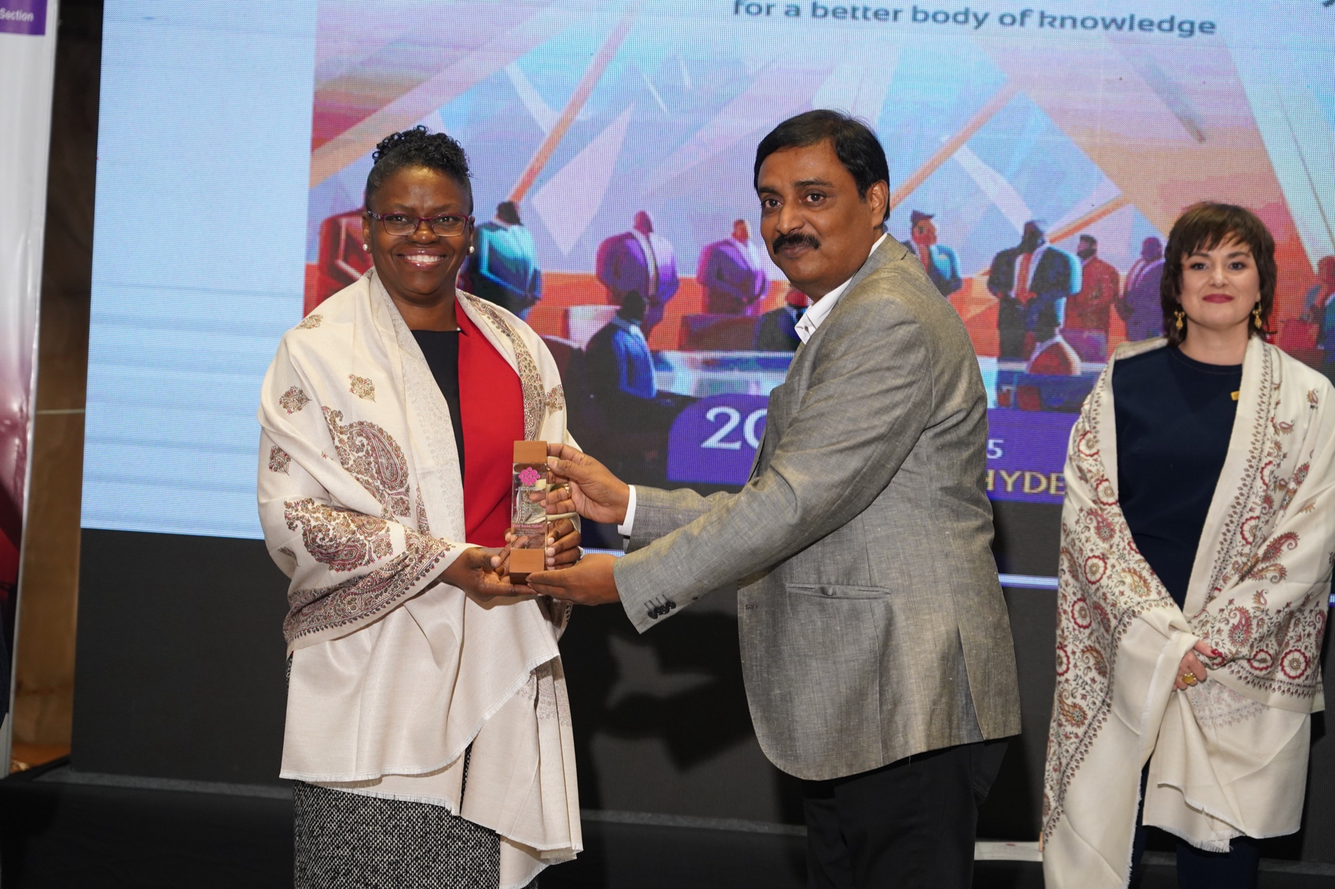
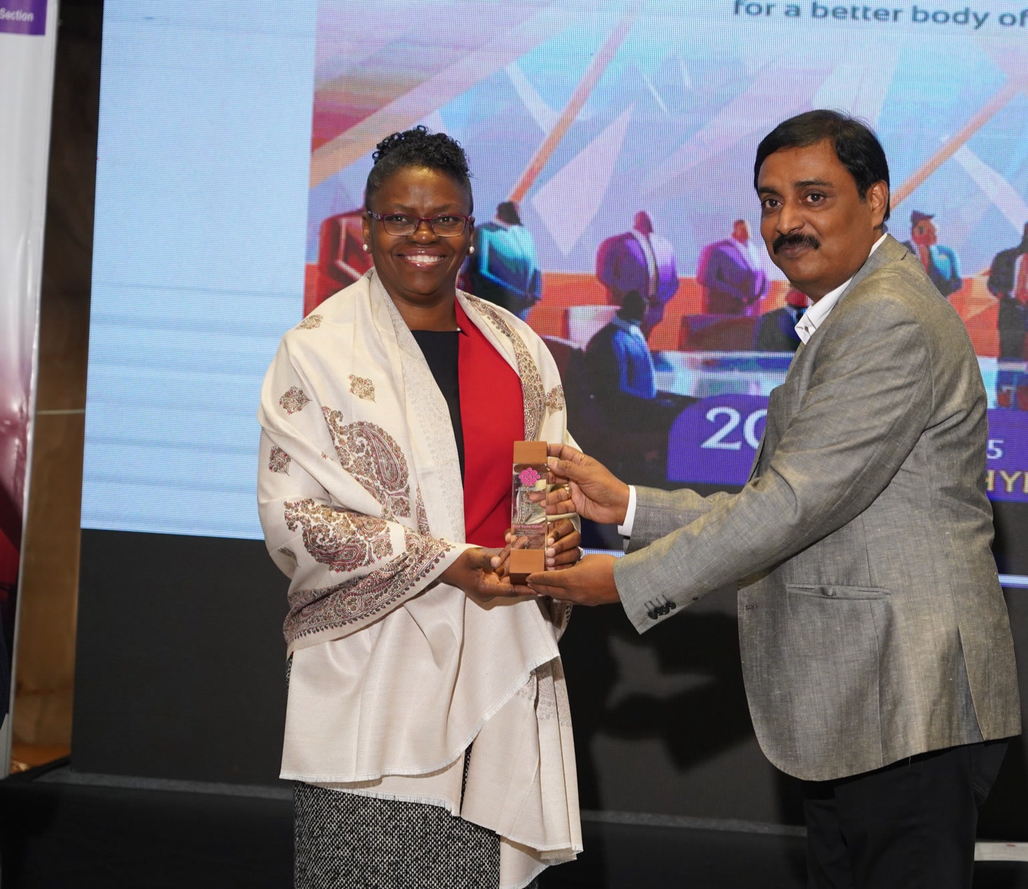
Crop the woman at the right edge out of the Hyderabad award carousel photo

diff --git a/components/home/leadership-carousel-section.tsx b/components/home/leadership-carousel-section.tsx
@@ -8,7 +8,7 @@ import { withBasePath } from "@/lib/base-path"
 /** `contain` letterboxes photos on navy instead of cropping them; `position` sets object-position for cropped ones. */
 const slides: { src: string; caption: string; contain?: boolean; position?: string }[] = [
   { src: "/taiwan-partnership.jpeg", caption: "Signing an international partnership with a Taiwanese institution", contain: true },
-  { src: "/hyderabad-honoree-shawl.jpg", caption: "Honored at the Leadership Educators’ Summit, Hyderabad, 2025", position: "center 30%" },
+  { src: "/hyderabad-honoree-shawl.jpg", caption: "Honored at the Leadership Educators’ Summit, Hyderabad, 2025", position: "center 20%" },
   { src: "/aacp-council-of-deans.jpeg", caption: "AACP Council of Deans", contain: true },
   { src: "/brisbane-leadership-workshop.jpeg", caption: "Co-leading the FIP ECPG Leadership Development Program, Brisbane, 2023", contain: true },
   { src: "/next-generation-leaders.jpeg", caption: "Developing the next generation of leaders", contain: true },
